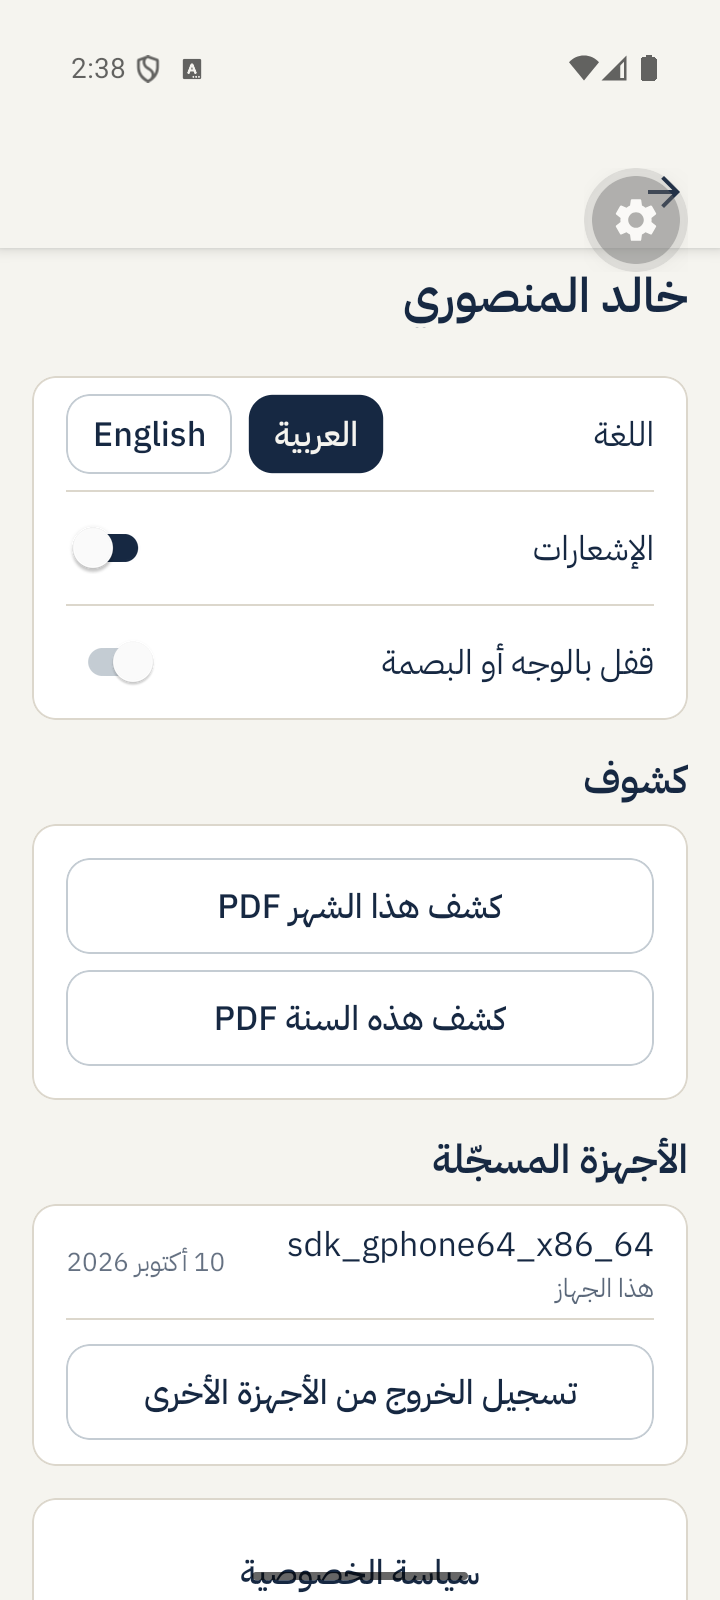
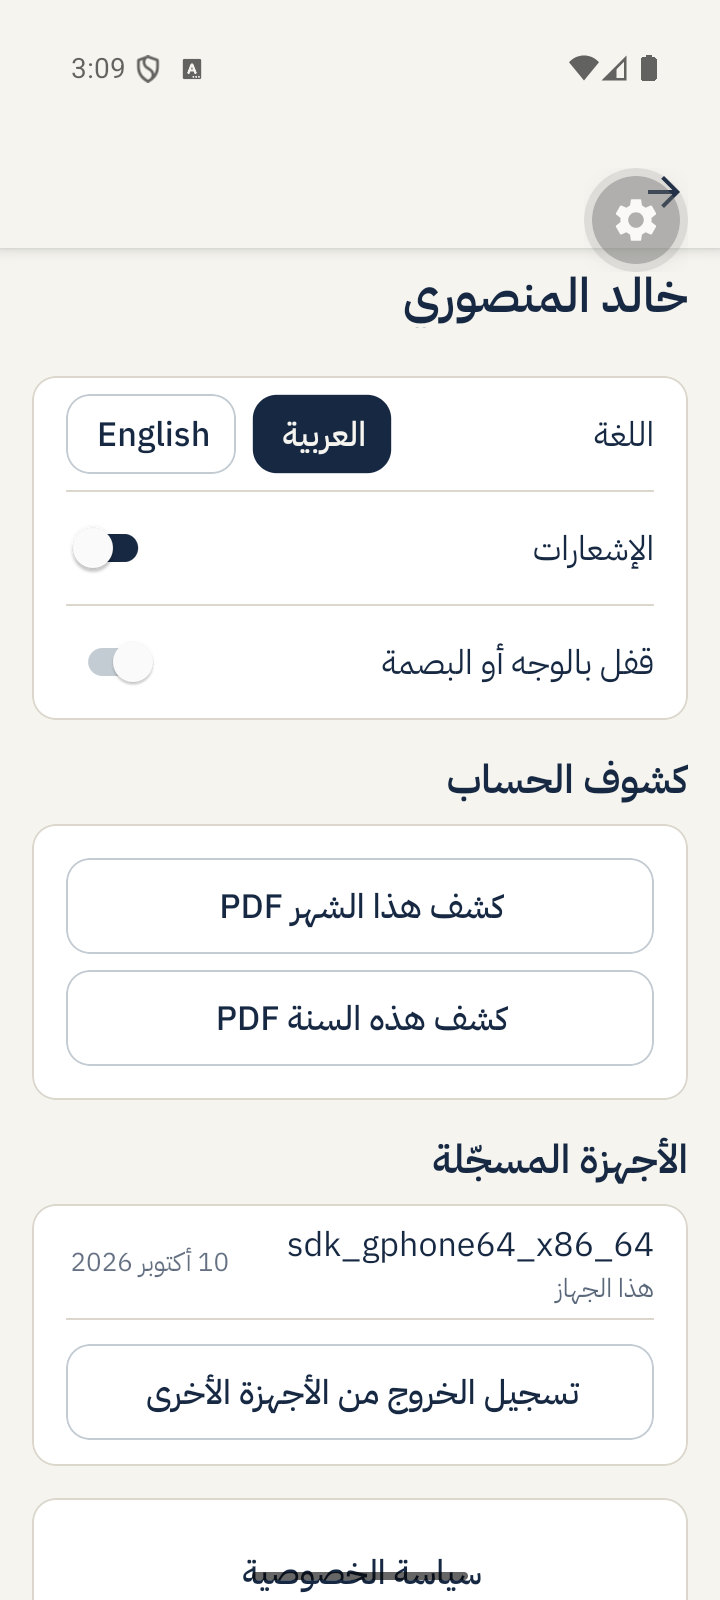
fix(app): Arabic text no longer clips on Android; docs: progress entry, project notes and demo guide for the app pass, deployment and store readiness

diff --git a/apps/mobile/src/ui/index.tsx b/apps/mobile/src/ui/index.tsx
@@ -58,6 +58,10 @@ export function Text({
           color: colorValue,
           textAlign: 'left',
           writingDirection: 'auto',
+          // Android measures shaped Arabic a few pixels narrower than it draws it and clips the
+          // last glyphs; no font padding plus a 2 px end padding keeps the last word intact.
+          includeFontPadding: false,
+          paddingEnd: 2,
         },
         tnum ? { fontVariant: ['tabular-nums'] } : null,
         style,

diff --git a/PROGRESS.md b/PROGRESS.md
@@ -63,3 +63,29 @@ alerts, money and date formatting) with 82 unit tests; design tokens.
 **Try it.** `pnpm dev`, then `pnpm --filter @vamar/dashboard e2e` (flows and screenshots).
 
 تم تنظيف المشروع والتأكد من نجاح جميع الفحوصات والاختبارات الآلية، وتم رفع الشيفرة إلى مستودع خاص على GitHub بحيث تُحفظ نسخة من العمل بعد كل خطوة وتُشغَّل الفحوصات تلقائياً مع كل تحديث، كما تم إعداد نسخة احتياطية ليلية مشفرة لقاعدة البيانات. وتم مراجعة لوحة التحكم صفحةً صفحة باللغتين العربية والإنجليزية وعلى الشاشات الكبيرة والصغيرة، وتم إصلاح ما ظهر من أخطاء في العرض مثل التفاف الأرقام والتواريخ واتجاه القوائم في الواجهة العربية، وتم بناء اختبارات آلية تمر بالمسار الكامل للموظف من تسجيل الدخول إلى إضافة مالك ووحدة وعقد مع جدول الشيكات ثم تحديث حالة الشيك وارتجاعه واستبداله.
+
+## Owner app on the emulator, live deployment, store readiness (10 Oct 2026)
+
+**Built.**
+
+- The owner app runs on the Android emulator from a local dev build and was taken through every
+  screen in Arabic and English, light and dark: phone sign-in with the Auth emulator code, the
+  "not registered" state, home with the month switcher, cheques with property and status filters,
+  cheque detail with the timeline, properties and unit detail, disputes and dispute detail,
+  settings (language with RTL reload, notifications, biometric lock, signed-in devices, PDF
+  statements shared from the phone, account deletion request). Fixes along the way: a device id
+  that does not need WebCrypto, TTF fonts, the Android splash, the tab bar on gesture-navigation
+  phones, device rows and dates in settings, natural unit ordering, and Arabic text clipping.
+- Live: Worker at https://vamar-owner-portal.vamar-api.workers.dev (dashboard + API + cron,
+  security headers on static files), Neon database in Frankfurt with an append-only audit role,
+  R2 buckets, backup secrets (R2 API token still to add), `pnpm demo:reset` for both databases.
+- EAS: project linked, preview APK built against the live API (link + QR in MEETING.md),
+  production and submit profiles, STORE.md with both stores' listing texts, privacy answers,
+  reviewer account and the publishing steps; store-sized screenshots in `demo/screenshots/store`.
+- MEETING.md: ten-minute checklist, logins, five-minute script, likely questions, backup plan and
+  the WhatsApp message for PULSE.
+
+**Waiting on one click**: Firebase console > Authentication > Get started, after which the live
+sign-in, the real push notifications and the APK sign-in test are switched on by script.
+
+تم تشغيل تطبيق المالك على محاكي أندرويد ومراجعته شاشةً شاشة باللغتين العربية والإنجليزية وبالوضعين الفاتح والداكن، من تسجيل الدخول برقم الجوال ورسالة الرقم غير المسجل، إلى الشاشة الرئيسية والشيكات بفلاترها وتفاصيل الشيك والعقارات والوحدات والمنازعات والإعدادات، مع إصدار كشف الحساب بصيغة PDF من الهاتف، وتم إصلاح كل ما ظهر من أخطاء في العرض والاتجاه العربي. وتم نشر النسخة الحية للوحة التحكم والخدمة الخلفية على الإنترنت مع قاعدة بيانات حقيقية ونسخة احتياطية ليلية، وتم بناء نسخة أندرويد قابلة للتنزيل برابط ورمز QR لتجربتها على أي هاتف، وتم تجهيز كل ما تطلبه متاجر التطبيقات من نصوص وصور وإجابات الخصوصية، وتم إعداد دليل الاجتماع مع العميل بالكامل.

diff --git a/PROJECT.md b/PROJECT.md
@@ -241,6 +241,19 @@ themes. `pnpm --filter @vamar/tokens build` writes `dist/tokens.css` for Tailwin
   without `neon_superuser` and the append-only audit grants hold (see "Setup I must do").
 - **Android SDK via command-line tools, not Android Studio**, so no admin install is needed and
   the setup is reproducible from PROJECT.md; Android Studio can be added later for its GUI.
+- **Owner app on the emulator, lessons that are now code or config.** Hermes has no global
+  WebCrypto, so the device id comes from `expo-application` (Android ID / iOS vendor id) instead of
+  `crypto.getRandomValues`. Android cannot load `.woff2` fonts natively, so the app and the PDF
+  statement embed the TTF files. The dev build must carry the demo `google-services.json`
+  (project `demo-vamar`) to talk to the Auth emulator; the real file is an EAS secret file
+  (`GOOGLE_SERVICES_JSON`) used only by cloud builds. Android 12+ masks the splash image in a
+  circle, so Android gets the square mark-only `splash-android.png`. Expo writes the iOS locale
+  keys into Android `strings.xml` and lint fails the release build; `plugins/withAndroidLocales.js`
+  keeps only the localised `app_name`. Android measures shaped Arabic slightly narrower than it
+  draws it and clips the last glyphs; the `Text` primitive sets `includeFontPadding: false` plus a
+  2 px end padding. Metro resolves the shared packages' `./x.js` specifiers back to `.ts`
+  (`metro.config.js`) and ignores the native build folders. `tooling/dev/emu.sh` drives the
+  emulator from scripts (dump, tap by text, type, wait, screenshot, Auth-emulator OTP).
 - **Internal packages export source, not `dist`.** All consumers bundle; removes a build step
   and stale-output bugs. Turborepo calls this "just-in-time packages".
 - **Money as `number` fils in code, `bigint` in Postgres.** Safe to 2^53 fils; avoids BigInt JSON
@@ -290,7 +303,16 @@ Nothing here blocks local development; all of it is for deployed environments or
    (Object Read & Write, bucket `vamar-backups`), then `gh secret set R2_ACCESS_KEY_ID` and
    `gh secret set R2_SECRET_ACCESS_KEY`, then run the workflow once by hand (Actions > Nightly
    database backup > Run workflow).
-5. **Expo/EAS**: account and project for dev builds and push notifications (Phase 1/4).
+5. **Expo/EAS**: done on 10 Oct 2026: project `@best-coder-alive/vamar-owner-portal`
+   (id `7e929192-4d31-4476-a3ef-49e0eeb78760`), Android keystore kept by EAS, preview APK built
+   against the live API (link in MEETING.md and `.local/apk-url.txt`). Production profile builds
+   an AAB; `eas submit` needs the store accounts listed in STORE.md.
+6. **Firebase (real project `vamar-owner-portal-c55c2`)**: created, Android app `ae.vamar.owner` and
+   web app registered, dashboard production config in `apps/dashboard/.env.production`, Worker var
+   `FIREBASE_PROJECT_ID` set. **Still needed in the console**: Build > Authentication > Get started;
+   `.local/firebase-auth-config.mjs` then enables Email/Password, Phone with the five test numbers
+   (code 123456) and the UAE-only SMS region through the Identity Toolkit API, and the demo staff
+   users are created the same way.
 
 ## Phase log
 

diff --git a/DEMO.md b/DEMO.md
@@ -85,6 +85,10 @@ registered, contact Vamar" screen.
 ## Screenshots
 
 `demo/screenshots/dashboard` (1440 px and 390 px, Arabic and English, every page and detail
-page) and `demo/screenshots/app` (phone, Arabic). Regenerate the dashboard set with
+page), `demo/screenshots/app` (emulator captures: login, OTP, not registered, home, cheques,
+cheque detail, properties, unit detail, disputes, dispute detail, settings, account deletion,
+statement share; Arabic and English, plus a dark-mode set) and `demo/screenshots/store`
+(`pnpm demo:store-shots`: the same frames at Google Play and App Store sizes). App captures are
+taken with `tooling/dev/emu.sh shot <file>` while the app runs. Regenerate the dashboard set with
 `pnpm --filter @vamar/dashboard e2e -- screenshots` while `pnpm dev` is running; the full flow
 tests run with `pnpm --filter @vamar/dashboard e2e`.
